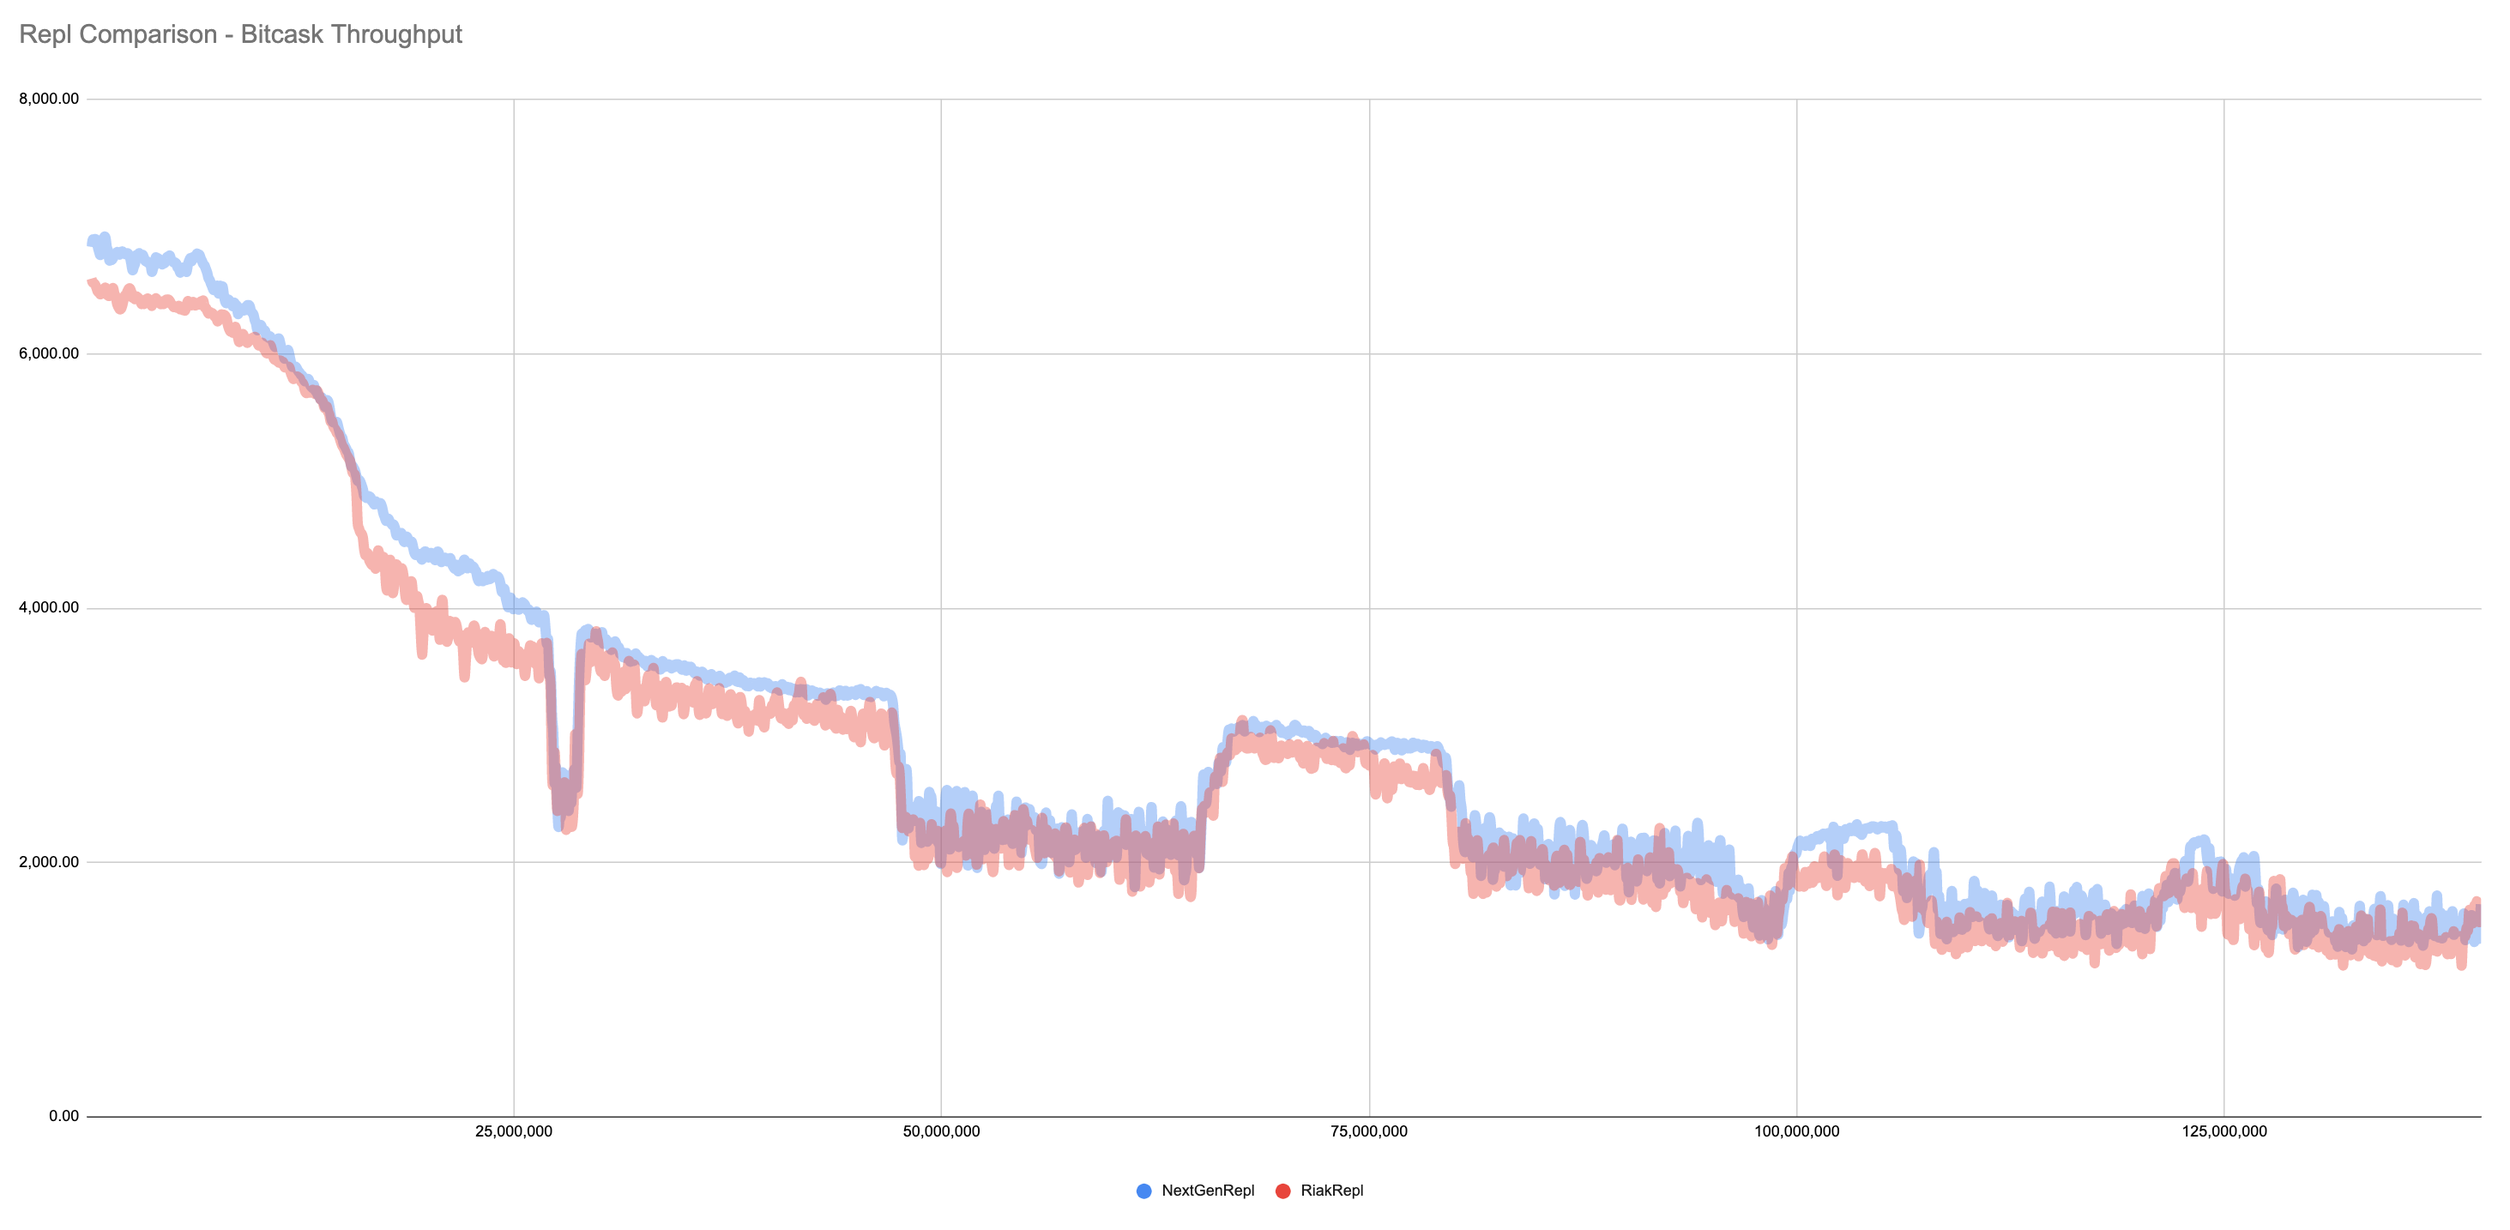
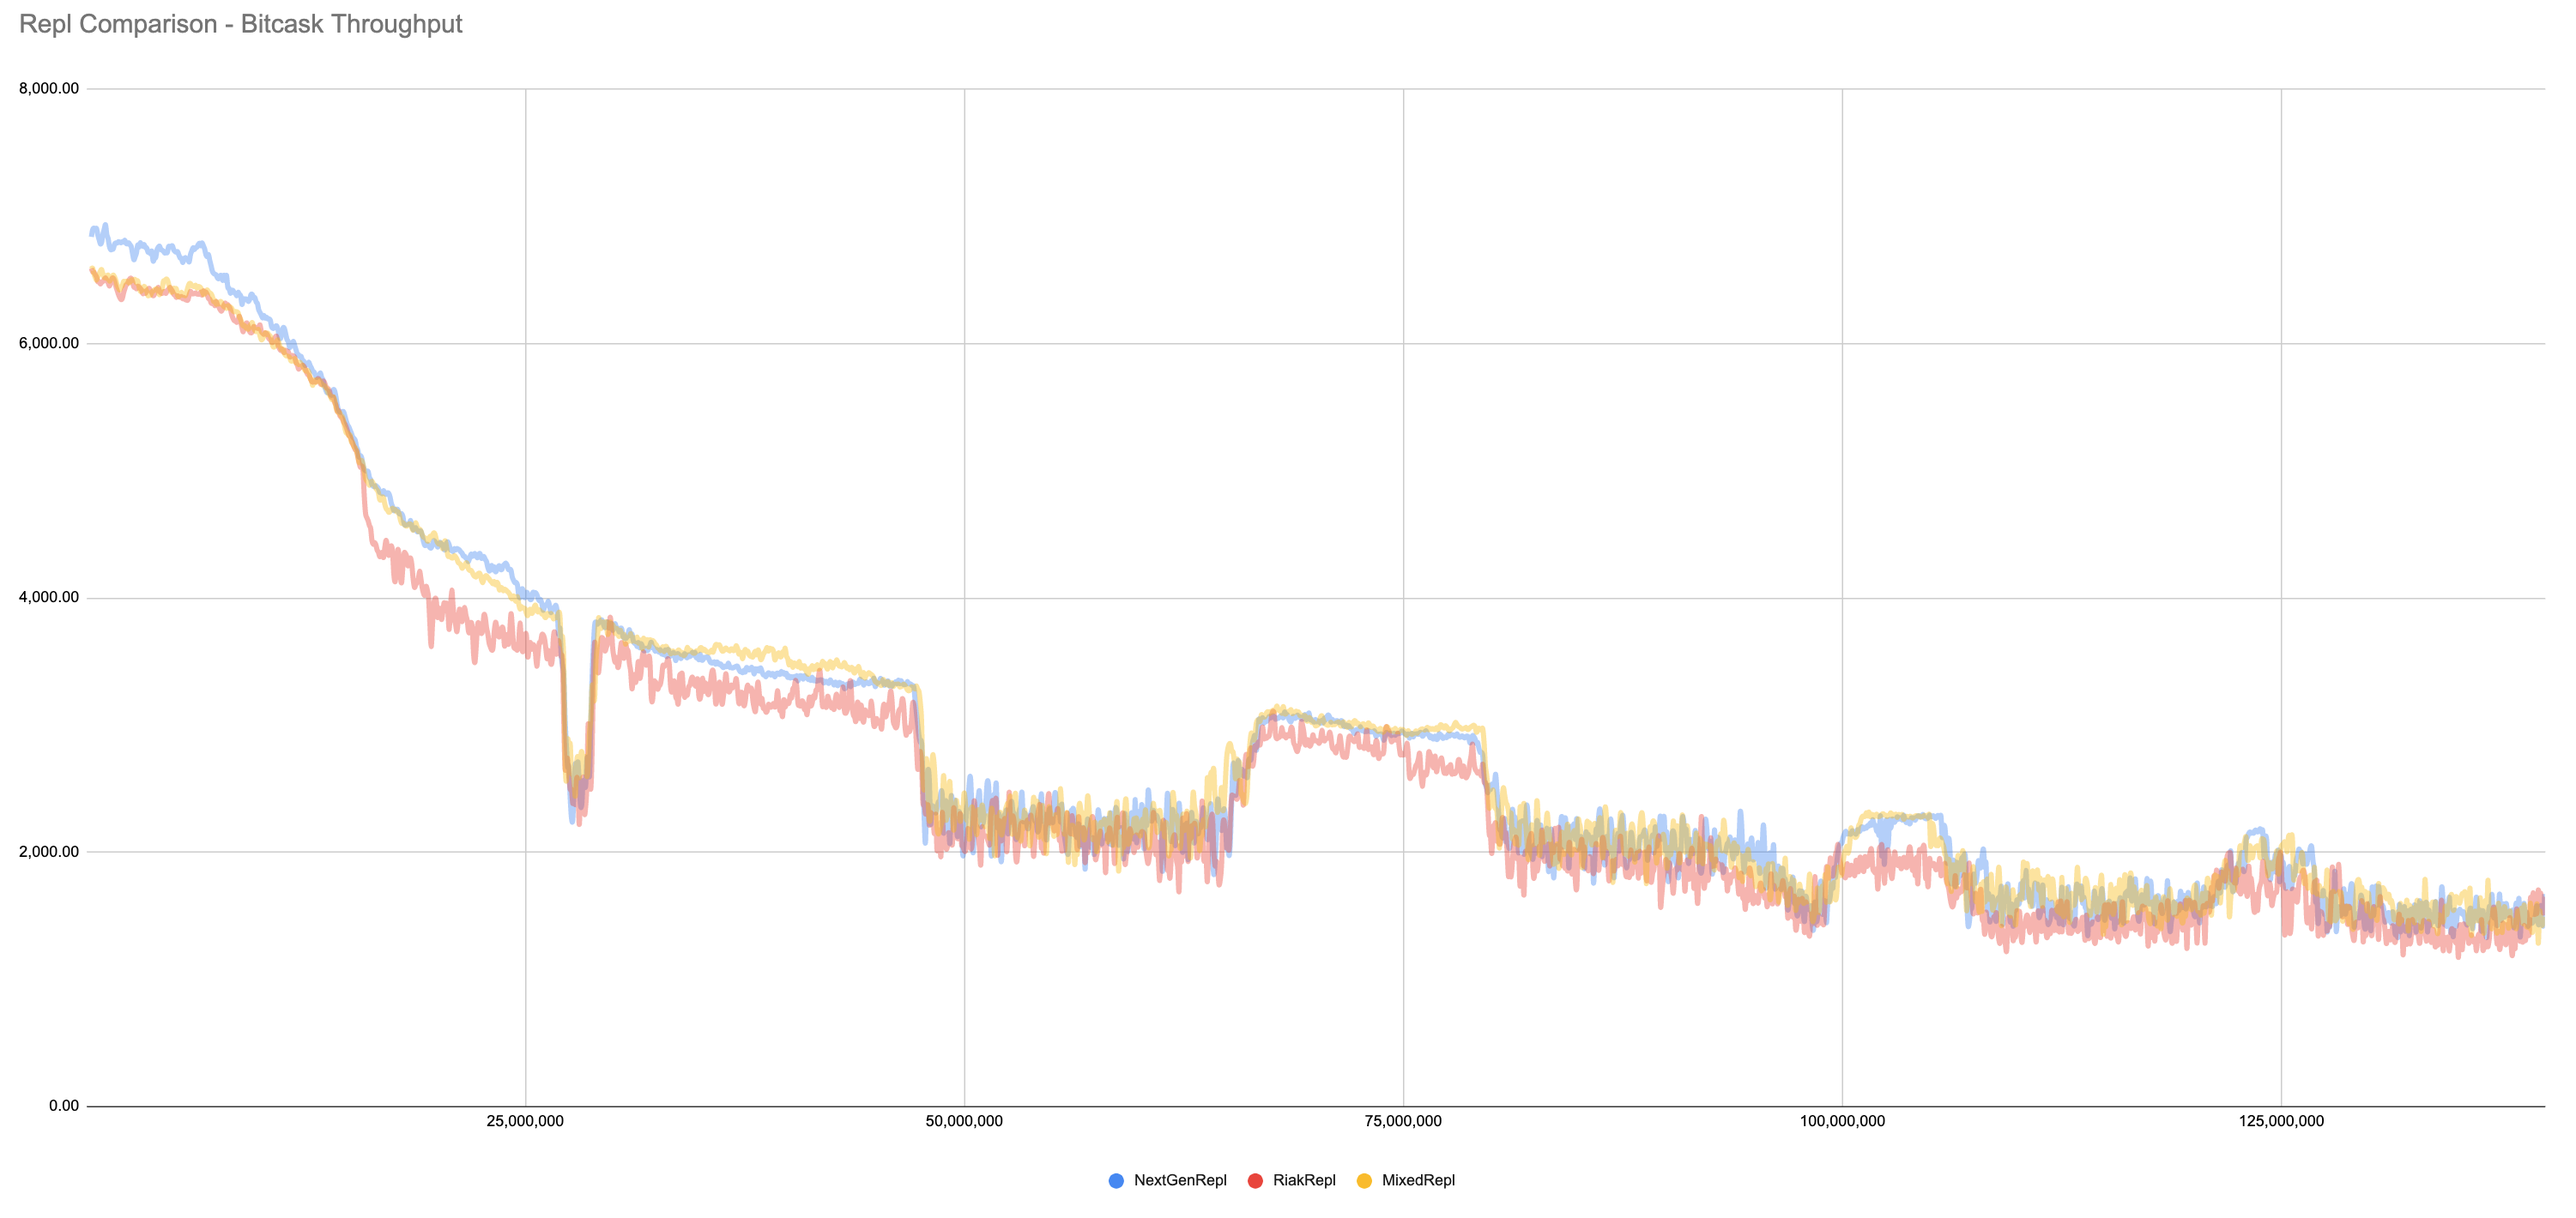
Add mixed_repl test charts

diff --git a/Release 2.9.1 - Volume Tests.md b/Release 2.9.1 - Volume Tests.md
@@ -50,19 +50,25 @@ The comparison between backends of throughput graphed against aggregated PUT vol
 
 ## Bitcask - Compare riak_repl to nextgenrepl
 
-Looking at the bitcask backend, it can be seen that throughput improves if the test id run with `nextgenrepl` not `riak_repl` with full-sync enabled:
+Testing with the bitcask backend, the test was run with three settings: `nextgenrepl` - for both full-sync and real-time replication; `riak_repl` - for both full-sync and real-time replication, and; `mixed_repl` - `nextgenrepl` full-sync and `riak_repl` real-time replication.
+
+Focusing on throughput, the transactionr ates were similar for the `nextgenrepl` and `mixed_repl` tests, but **5.7%** lower in the `riak_repl` test:
 
 ![](img/ReplThroughputBitcask.png)
 
-There is also an improvement in the replication time, and the volatility of the replication time.
+There is a significant improvement in the replication time, and the volatility of the replication time with the `nextgenrepl` test compared to both the `mixed_repl` and `riak_repl` tests
 
-This chart compares the PUT time against the PUT & CHECK_REPL time for `riak_repl`:
+This chart compares the PUT time against the PUT & CHECK_REPL time for `nextgenrepl`:
+
+![](img/ReplTimeNextGenReplBitcask.png):
+
+This is the equivalent chart for `riak_repl`:
 
 ![](img/ReplTimeRiakReplBitcask.png)
 
-This is the equivalent chart for `nextgenrepl`:
+This is the equivalent chart for `mixedrepl`:
 
-![](img/ReplTimeNextGenReplBitcask.png)
+![](img/ReplTimeMixedReplBitcask.png)
 
 The difference between the configurations, is highlighted by the increased READ volume on the disk system when running riak_repl with fullsync.  An extra 40MB/s of read throughput is required by node to run keylisting full-sync.
 
